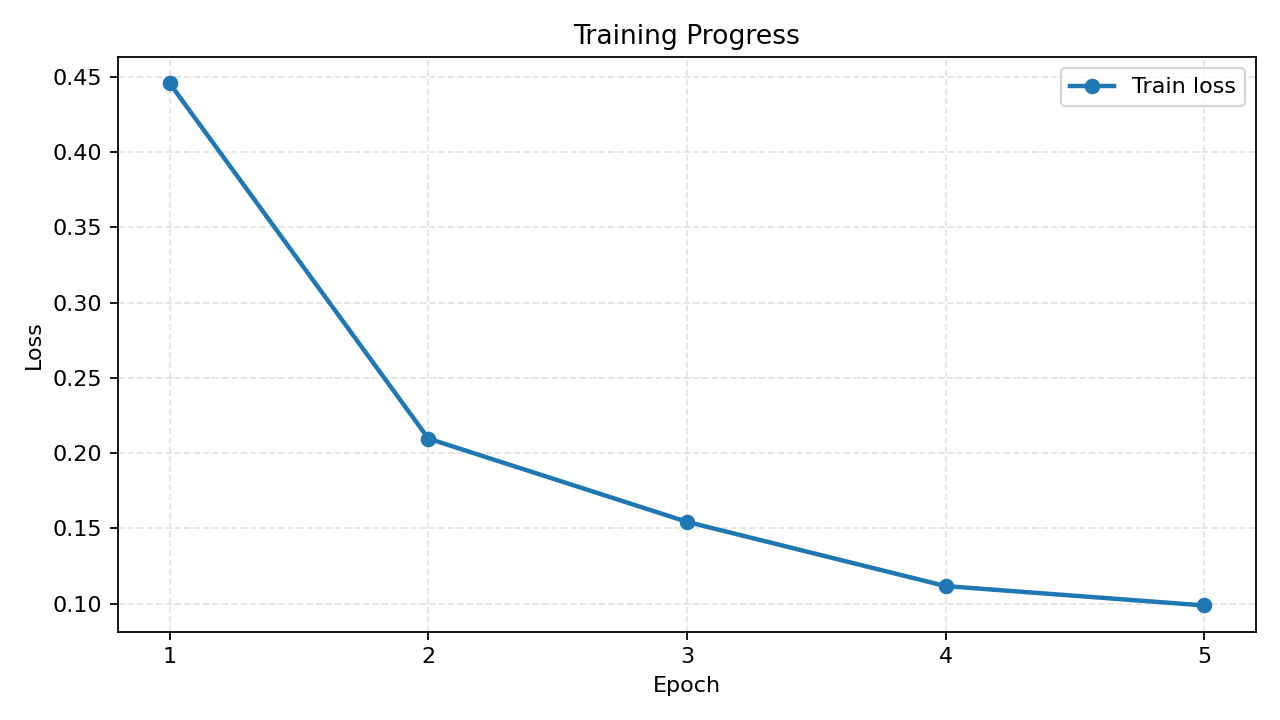
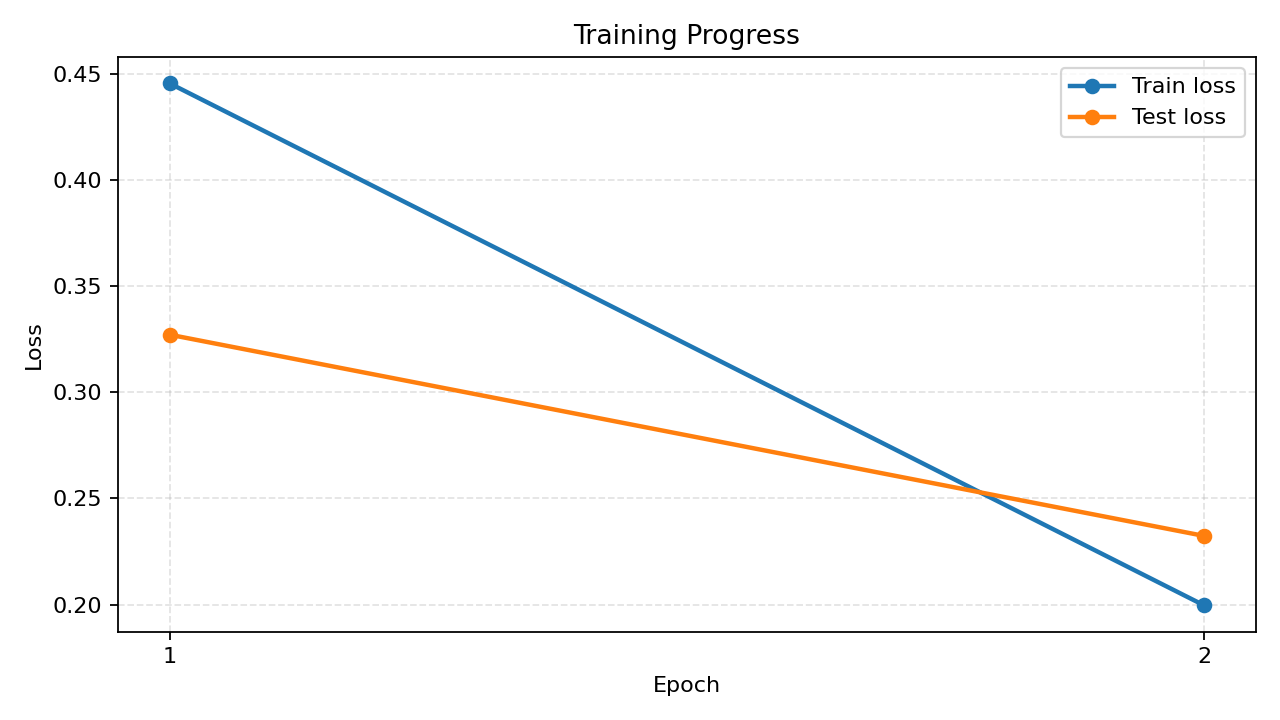
Use combined train and test loss plot

diff --git a/src/defect_detection/training/plot_metrics.py b/src/defect_detection/training/plot_metrics.py
@@ -45,55 +45,6 @@ def _points(records: list[dict[str, Any]], key: str) -> list[tuple[int, float]]:
     return points
 
 
-def _save_missing_plot(output_path: Path, title: str, message: str) -> Path:
-    fig, ax = plt.subplots(figsize=(8, 4.5), dpi=160)
-    ax.set_title(title)
-    ax.axis("off")
-    ax.text(0.5, 0.5, message, ha="center", va="center", wrap=True, fontsize=12)
-    fig.tight_layout()
-    fig.savefig(output_path)
-    plt.close(fig)
-    return output_path
-
-
-def plot_single_loss_curve(
-    metrics_path: str | Path,
-    output_path: str | Path,
-    loss_key: str,
-    label: str,
-    allow_missing: bool = False,
-) -> Path:
-    records = read_metrics(metrics_path)
-    if not records:
-        raise ValueError(f"No metric records found in {metrics_path}")
-
-    output_path = Path(output_path)
-    output_path.parent.mkdir(parents=True, exist_ok=True)
-    points = _points(records, loss_key)
-    if not points:
-        if allow_missing:
-            return _save_missing_plot(
-                output_path,
-                label,
-                f"{loss_key} is not recorded in this metrics file.\nRun training again to collect it per epoch.",
-            )
-        raise ValueError(f"No {loss_key} values found in {metrics_path}")
-
-    xs, ys = zip(*points)
-    fig, ax = plt.subplots(figsize=(8, 4.5), dpi=160)
-    ax.plot(xs, ys, marker="o", linewidth=2, label=label)
-    ax.set_title(label)
-    ax.set_xlabel("Epoch")
-    ax.set_ylabel("Loss")
-    ax.grid(True, linestyle="--", alpha=0.35)
-    ax.legend()
-    ax.set_xticks(xs)
-    fig.tight_layout()
-    fig.savefig(output_path)
-    plt.close(fig)
-    return output_path
-
-
 def plot_loss_curves(metrics_path: str | Path, output_path: str | Path) -> Path:
     records = read_metrics(metrics_path)
     if not records:
@@ -129,42 +80,14 @@ def plot_loss_curves(metrics_path: str | Path, output_path: str | Path) -> Path:
     return output_path
 
 
-def plot_loss_artifacts(metrics_path: str | Path, output_dir: str | Path, allow_missing: bool = False) -> dict[str, Path]:
-    output_dir = Path(output_dir)
-    output_dir.mkdir(parents=True, exist_ok=True)
-    return {
-        "combined": plot_loss_curves(metrics_path, output_dir / "loss_curve.png"),
-        "train": plot_single_loss_curve(
-            metrics_path,
-            output_dir / "train_loss_curve.png",
-            loss_key="train_loss",
-            label="Train loss",
-            allow_missing=allow_missing,
-        ),
-        "test": plot_single_loss_curve(
-            metrics_path,
-            output_dir / "test_loss_curve.png",
-            loss_key="test_loss",
-            label="Test loss",
-            allow_missing=allow_missing,
-        ),
-    }
-
-
 def main() -> None:
     parser = argparse.ArgumentParser()
     parser.add_argument("--metrics", type=str, default="runs/defect_faster_rcnn/metrics.jsonl")
-    parser.add_argument("--output", type=str, default=None, help="Path for a combined train/test loss plot.")
-    parser.add_argument("--output-dir", type=str, default=None, help="Directory for train, test, and combined loss plots.")
+    parser.add_argument("--output", type=str, default="runs/defect_faster_rcnn/loss_curve.png")
     args = parser.parse_args()
 
-    if args.output_dir:
-        outputs = plot_loss_artifacts(args.metrics, args.output_dir, allow_missing=True)
-        for name, output_path in outputs.items():
-            print(f"Saved {name} loss plot: {output_path}")
-    else:
-        output_path = plot_loss_curves(args.metrics, args.output or "runs/defect_faster_rcnn/loss_curve.png")
-        print(f"Saved loss curve: {output_path}")
+    output_path = plot_loss_curves(args.metrics, args.output)
+    print(f"Saved loss curve: {output_path}")
 
 
 if __name__ == "__main__":

diff --git a/tests/test_plot_metrics.py b/tests/test_plot_metrics.py
@@ -3,7 +3,7 @@ from __future__ import annotations
 import json
 from pathlib import Path
 
-from defect_detection.training.plot_metrics import plot_loss_artifacts, plot_loss_curves
+from defect_detection.training.plot_metrics import plot_loss_curves
 
 
 def test_plot_loss_curves_creates_png(tmp_path: Path):
@@ -22,25 +22,3 @@ def test_plot_loss_curves_creates_png(tmp_path: Path):
     assert result == output_path
     assert output_path.exists()
     assert output_path.stat().st_size > 0
-
-
-def test_plot_loss_artifacts_creates_train_and_test_pngs(tmp_path: Path):
-    metrics_path = tmp_path / "metrics.jsonl"
-    output_dir = tmp_path / "plots"
-    records = [
-        {"epoch": 1, "train_loss": 0.5, "test_loss": 0.6},
-        {"epoch": 2, "train_loss": 0.3, "test_loss": 0.4},
-    ]
-    with metrics_path.open("w", encoding="utf-8") as f:
-        for record in records:
-            f.write(json.dumps(record) + "\n")
-
-    outputs = plot_loss_artifacts(metrics_path, output_dir)
-
-    assert set(outputs) == {"combined", "train", "test"}
-    assert outputs["combined"].name == "loss_curve.png"
-    assert outputs["train"].name == "train_loss_curve.png"
-    assert outputs["test"].name == "test_loss_curve.png"
-    for output_path in outputs.values():
-        assert output_path.exists()
-        assert output_path.stat().st_size > 0

diff --git a/src/defect_detection/training/engine.py b/src/defect_detection/training/engine.py
@@ -12,7 +12,7 @@ from tqdm import tqdm
 from defect_detection.data import COCODefectDataset, get_train_transforms, get_val_transforms
 from defect_detection.models import build_faster_rcnn
 from defect_detection.training.evaluate import evaluate_detector, evaluate_loss
-from defect_detection.training.plot_metrics import plot_loss_artifacts
+from defect_detection.training.plot_metrics import plot_loss_curves
 from defect_detection.utils import collate_fn, ensure_dir, get_device, load_yaml, move_targets_to_device, save_jsonl, set_seed
 
 
@@ -184,7 +184,7 @@ def main(config_path: str) -> None:
             "seconds": round(time.time() - start, 2),
         })
         save_jsonl(metrics_path, metrics)
-        plot_loss_artifacts(metrics_path, output_dir)
+        plot_loss_curves(metrics_path, output_dir / "loss_curve.png")
 
         print(json.dumps(metrics, indent=2))
 
@@ -196,7 +196,7 @@ def main(config_path: str) -> None:
 
     print(f"Done. Best mAP@0.5: {best_map50:.4f}")
     print(f"Artifacts: {output_dir}")
-    print(f"Loss plots: {output_dir / 'train_loss_curve.png'} | {output_dir / 'test_loss_curve.png'}")
+    print(f"Loss plot: {output_dir / 'loss_curve.png'}")
 
 
 if __name__ == "__main__":

diff --git a/README.md b/README.md
@@ -138,19 +138,17 @@ runs/defect_faster_rcnn/
 ├── best.pt
 ├── last.pt
 ├── metrics.jsonl
-├── loss_curve.png
-├── train_loss_curve.png
-└── test_loss_curve.png
+└── loss_curve.png
 ```
 
 Each epoch writes `train_loss`, `test_loss`, detection metrics, learning rate, and epoch time to `metrics.jsonl`.
 If `data.test_images` and `data.test_annotations` exist, `test_loss` is computed on the test split; otherwise the validation split is used as a fallback holdout split.
-The train/test loss plots are updated automatically during training. You can also rebuild them manually:
+The loss comparison plot is updated automatically during training. It contains both `Train loss` and `Test loss` on the same graph. You can also rebuild it manually:
 
 ```bash
 python -m defect_detection.training.plot_metrics \
   --metrics runs/defect_faster_rcnn/metrics.jsonl \
-  --output-dir assets
+  --output assets/loss_curve.png
 ```
 
 ## Inference
@@ -275,15 +273,10 @@ Final validation counts for `last.pt`:
 Loss tracking:
 
 * new training runs save both `train_loss` and `test_loss` to `runs/defect_faster_rcnn/metrics.jsonl`;
-* `runs/defect_faster_rcnn/train_loss_curve.png` and `runs/defect_faster_rcnn/test_loss_curve.png` are generated automatically after every epoch;
 * `runs/defect_faster_rcnn/loss_curve.png` contains both curves on one comparison plot;
 * the historical run shown below was trained before `test_loss` logging was added, so its stored `metrics.jsonl` contains only `train_loss`.
 
-![Train loss curve](assets/train_loss_curve.png)
-
-![Test loss curve](assets/test_loss_curve.png)
-
-![Combined loss curve](assets/loss_curve.png)
+![Train and test loss comparison](assets/loss_curve.png)
 
 Prediction examples generated with `best.pt` and score threshold `0.4`:
 
@@ -297,11 +290,7 @@ Result artifacts:
 assets/prediction_1.png
 assets/prediction_2.png
 assets/loss_curve.png
-assets/train_loss_curve.png
-assets/test_loss_curve.png
 runs/defect_faster_rcnn/loss_curve.png
-runs/defect_faster_rcnn/train_loss_curve.png
-runs/defect_faster_rcnn/test_loss_curve.png
 runs/defect_faster_rcnn/best.pt
 runs/defect_faster_rcnn/last.pt
 runs/defect_faster_rcnn/metrics.jsonl